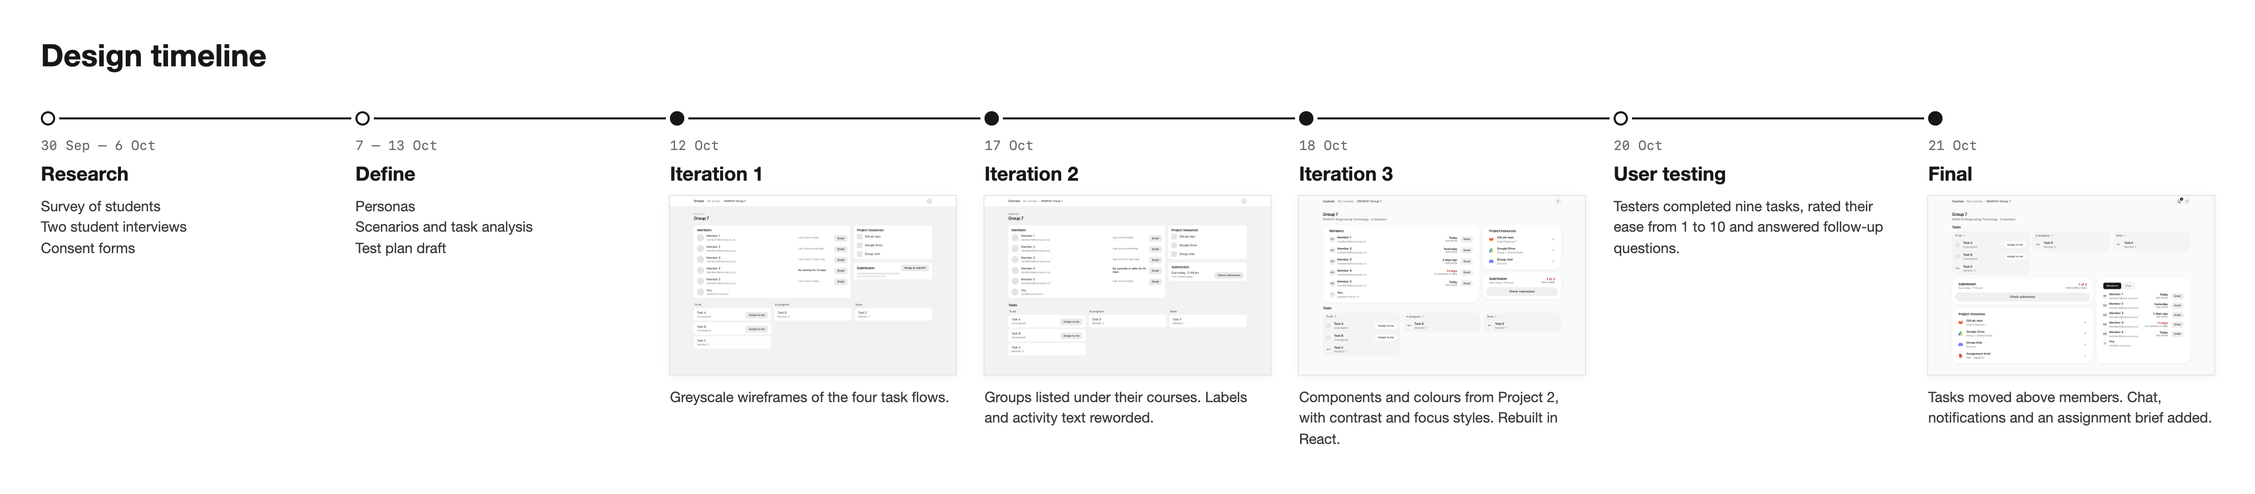
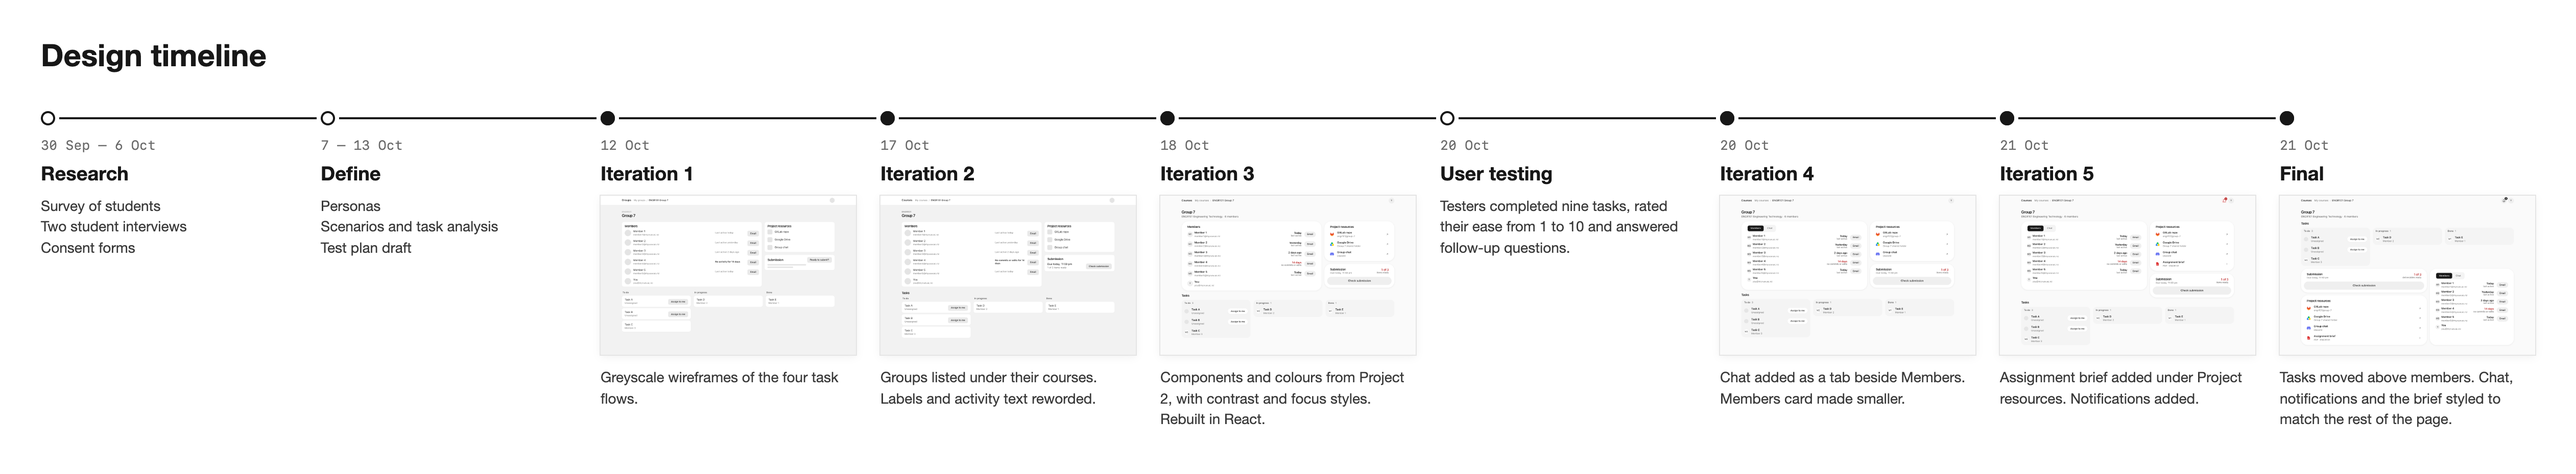
Add Ryan iterations 4 and 5

diff --git a/README.md b/README.md
@@ -26,6 +26,14 @@
   - [Changelog](./wireframes/iteration-3/CHANGES.md)
   - Changes:
     ![Iteration 3 changes](./wireframes/iteration-3/changes.png)
+- Iteration 4
+  - [Changelog](./wireframes/iteration-4/CHANGES.md)
+  - Changes:
+    ![Iteration 4 changes](./wireframes/iteration-4/changes.png)
+- Iteration 5
+  - [Changelog](./wireframes/iteration-5/CHANGES.md)
+  - Changes:
+    ![Iteration 5 changes](./wireframes/iteration-5/changes.png)
 - [Final prototype](./final-prototype.html)
   - [Changelog](./wireframes/final/CHANGES.md)
   - Changes:

diff --git a/wireframes/iteration-5/CHANGES.md b/wireframes/iteration-5/CHANGES.md
@@ -1,0 +1,12 @@
+# Changes
+
+This iteration was to implement features recommended during user testing on
+iteration 3.
+
+## Iteration 5
+
+- **Resources:** Added a sample assignment brief linked under resources,
+  making the system more self-contained and integrated. - recommended by Isaac
+  during User Testing
+- **Components:** Added a notification bar with example notifications linking
+  to parts of the site. - recommended by Isaac during User Testing

diff --git a/wireframes/iteration-4/CHANGES.md b/wireframes/iteration-4/CHANGES.md
@@ -1,0 +1,11 @@
+# Changes
+
+This iteration was to add a chat feature.
+
+## Iteration 4
+
+- **Component:** New tab selector above members list to switch between chat
+- **Chat feature:** Shows chat history and allows new messages to be sent and
+  viewed - recommended by Isaac during User Testing
+- **Hierarchy:** Slightly reduced the size of the members so that its less
+  visually prioritized over tasks - recommended by Isaac during User Testing
